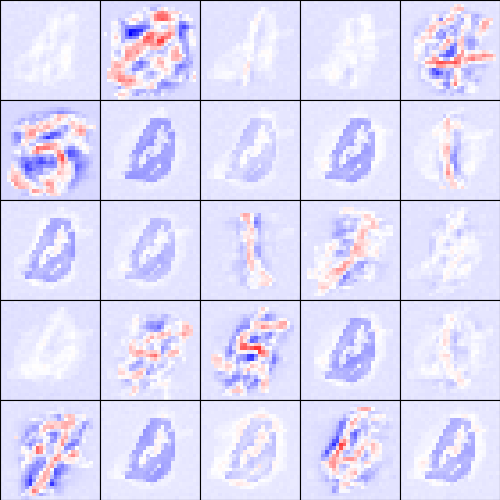
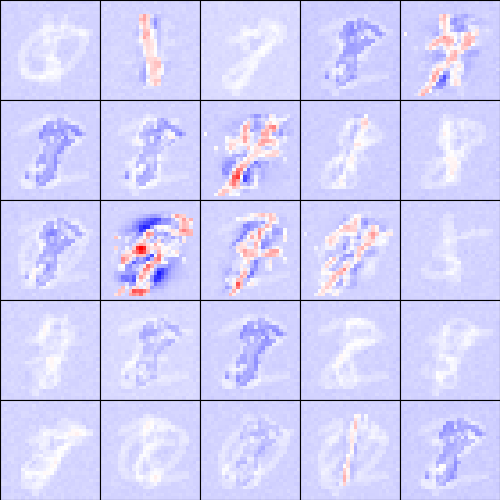
small speed improvmenets

diff --git a/lab4/rbm.py b/lab4/rbm.py
@@ -1,4 +1,6 @@
 from util import *
+import sys
+np.set_printoptions(threshold=sys.maxsize)
 
 class RestrictedBoltzmannMachine():
     '''
@@ -76,25 +78,24 @@ class RestrictedBoltzmannMachine():
           visible_trainset: training data for this rbm, shape is (size of training set, size of visible layer)
           n_iterations: number of iterations of learning (each iteration learns a mini-batch)
         """
-
         print ("learning CD1")
         visible_trainset = visible_trainset[:500]
         n_samples = visible_trainset.shape[0]
         n_minibatches = int(n_samples/self.batch_size + 0.5)
 
         minibatch_folds = np.array((list(range(n_minibatches))*self.batch_size)[:n_samples])
-        np.random.shuffle(minibatch_folds)
 
         for it in range(n_iterations):
+            np.random.shuffle(minibatch_folds)
             print("Iterations", it)
             for fold_index in range(n_minibatches):
                 if fold_index > self.max_n_minibatches:
                     break
                 minibatch = visible_trainset[minibatch_folds == fold_index]
-                v_activations_0 = minibatch
 
+                v_activations_0 = minibatch # could also make it binary but on quick testing it seemed not a good idea.
                 h_probs_0, h_activations_0 = self.get_h_given_v(v_activations_0)
-                v_probs_1, v_activations_1 = self.get_v_given_h(h_activations_0)
+                v_probs_1, _ = self.get_v_given_h(h_activations_0, sample=False)
                 h_probs_1, h_activations_1 = self.get_h_given_v(v_probs_1)
 
                 # print(v_activations_0.shape,h_activations_0.shape,v_probs_1.shape,h_probs_1.shape)
@@ -141,7 +142,8 @@ class RestrictedBoltzmannMachine():
 
         return
 
-    def get_h_given_v(self,visible_minibatch):
+    def get_h_given_v(self,visible_minibatch, sample=True):
+        # [TODO TASK 4.1] compute probabilities and activations (samples from probabilities) of hidden layer (replace the zeros below)
 
         """Compute probabilities p(h|v) and activations h ~ p(h|v)
 
@@ -154,23 +156,17 @@ class RestrictedBoltzmannMachine():
            both are shaped (size of mini-batch, size of hidden layer)
         """
 
-
-        assert self.weight_vh is not None
-
         n_samples = visible_minibatch.shape[0]
-        # [TODO TASK 4.1] compute probabilities and activations (samples from probabilities) of hidden layer (replace the zeros below)
 
         output_shape = (n_samples,self.ndim_hidden)
         h_given_v_prob = sigmoid(self.bias_h + np.dot(visible_minibatch, self.weight_vh))
-        h_given_v_activation = sample_binary(h_given_v_prob)
-
-        assert h_given_v_prob.shape == output_shape
-        assert h_given_v_activation.shape == output_shape
-
+        if sample:
+            h_given_v_activation = sample_binary(h_given_v_prob)
+        else:
+            h_given_v_activation = 0  
         return h_given_v_prob, h_given_v_activation
 
-
-    def get_v_given_h(self,hidden_minibatch):
+    def get_v_given_h(self,hidden_minibatch, sample=True):
 
         """Compute probabilities p(v|h) and activations v ~ p(v|h)
 
@@ -205,7 +201,9 @@ class RestrictedBoltzmannMachine():
             return_shape = (n_samples, self.ndim_visible)
 
             v_probs = sigmoid(self.bias_v + hidden_minibatch @ self.weight_vh.T)
-            v_activations = (np.random.random(return_shape) < v_probs)
+            if sample:
+                v_activations = (np.random.random(return_shape) < v_probs)
+            else: v_activations=0
 
         return v_probs, v_activations
 
